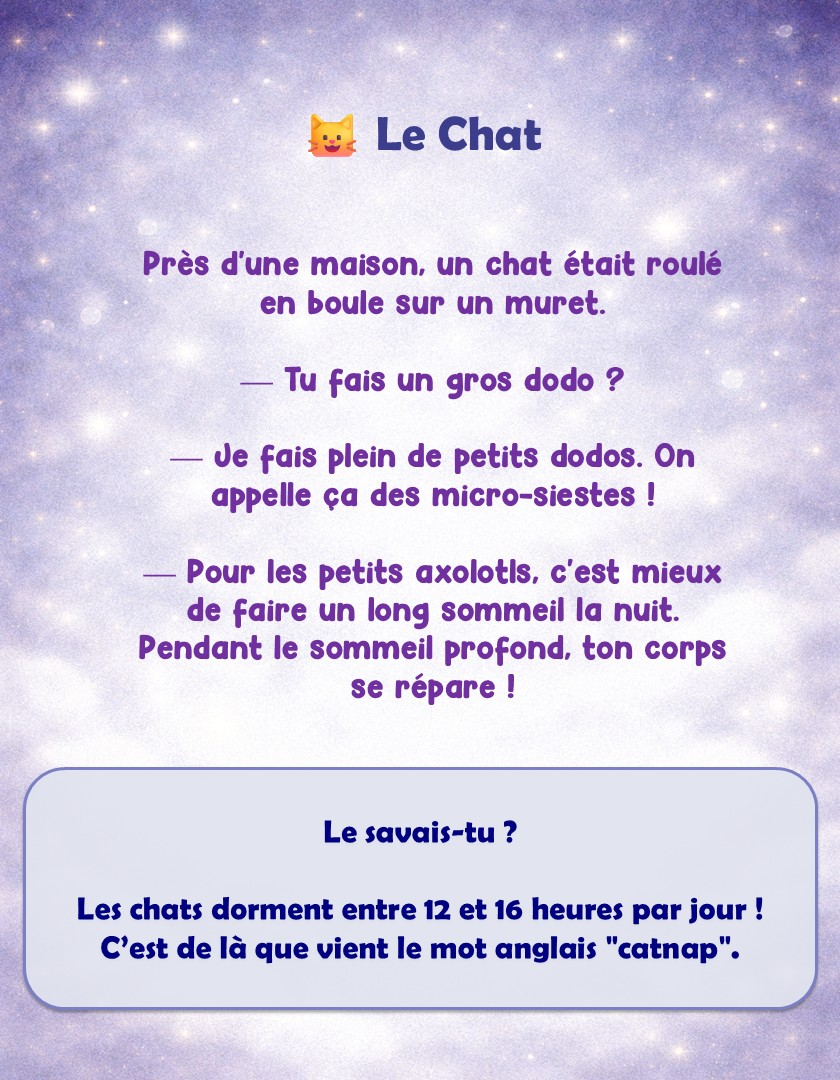
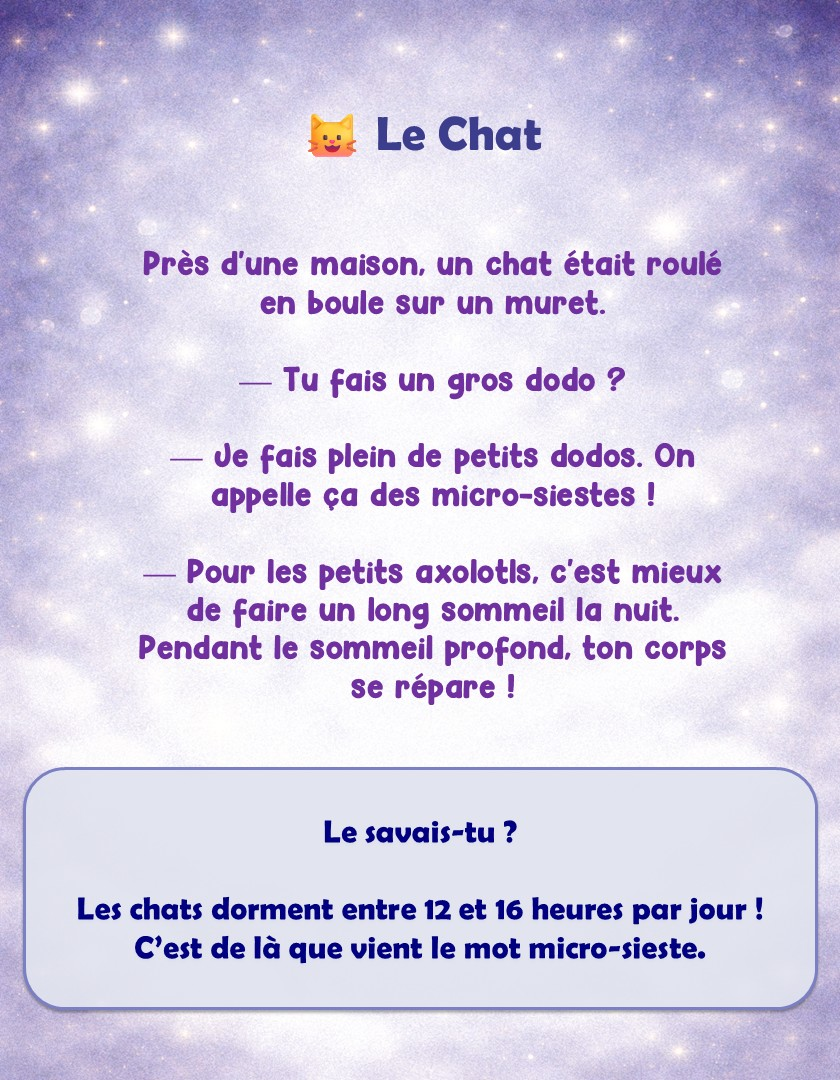
Update 8 retouched JPEGs + fix credits loop and end page display
- Updated Diapositive 6,10,12,16,20,22,24,28
- Fix: credits played in infinite loop (currentSpread still 14 after credits)
- Fix: flip to page 29 (diapo 30-31) when credits start

Changed region(s): [[0.1238, 0.825, 0.8667, 0.8861], [0.3405, 0.3361, 0.7429, 0.3667], [0.681, 0.5194, 0.7429, 0.55]]

diff --git a/sleep-book/read/index.html b/sleep-book/read/index.html
@@ -507,6 +507,12 @@
             if(currentSpread !== 1) playSpread(1);
           }, 1000);
         }
+      } else if(playingSpecial === 'credits'){
+        /* Credits ended → stop */
+        isPlaying = false;
+        playingSpecial = '';
+        fadeOutBgMusic();
+        playBtn.innerHTML = '&#9654;&#65039;';
       } else if(autoTurn && currentSpread >= 1 && currentSpread < TOTAL_SPREADS - 1){
         /* Story spreads 1-13 → advance to next */
         var nextSp = currentSpread + 1;
@@ -516,13 +522,14 @@
           if(currentSpread !== nextSp) playSpread(nextSp);
         }, 1000);
       } else if(currentSpread === TOTAL_SPREADS - 1){
-        /* Last story spread (14) ended → play credits */
+        /* Last story spread (14) ended → flip to end pages + play credits */
+        if(pageFlip) pageFlip.turnToPage(29);
         audio.src = CREDITS_SRC;
         audio.load();
         audio.play();
         playingSpecial = 'credits';
       } else {
-        /* Credits ended → stop */
+        /* Fallback stop */
         isPlaying = false;
         playingSpecial = '';
         fadeOutBgMusic();
